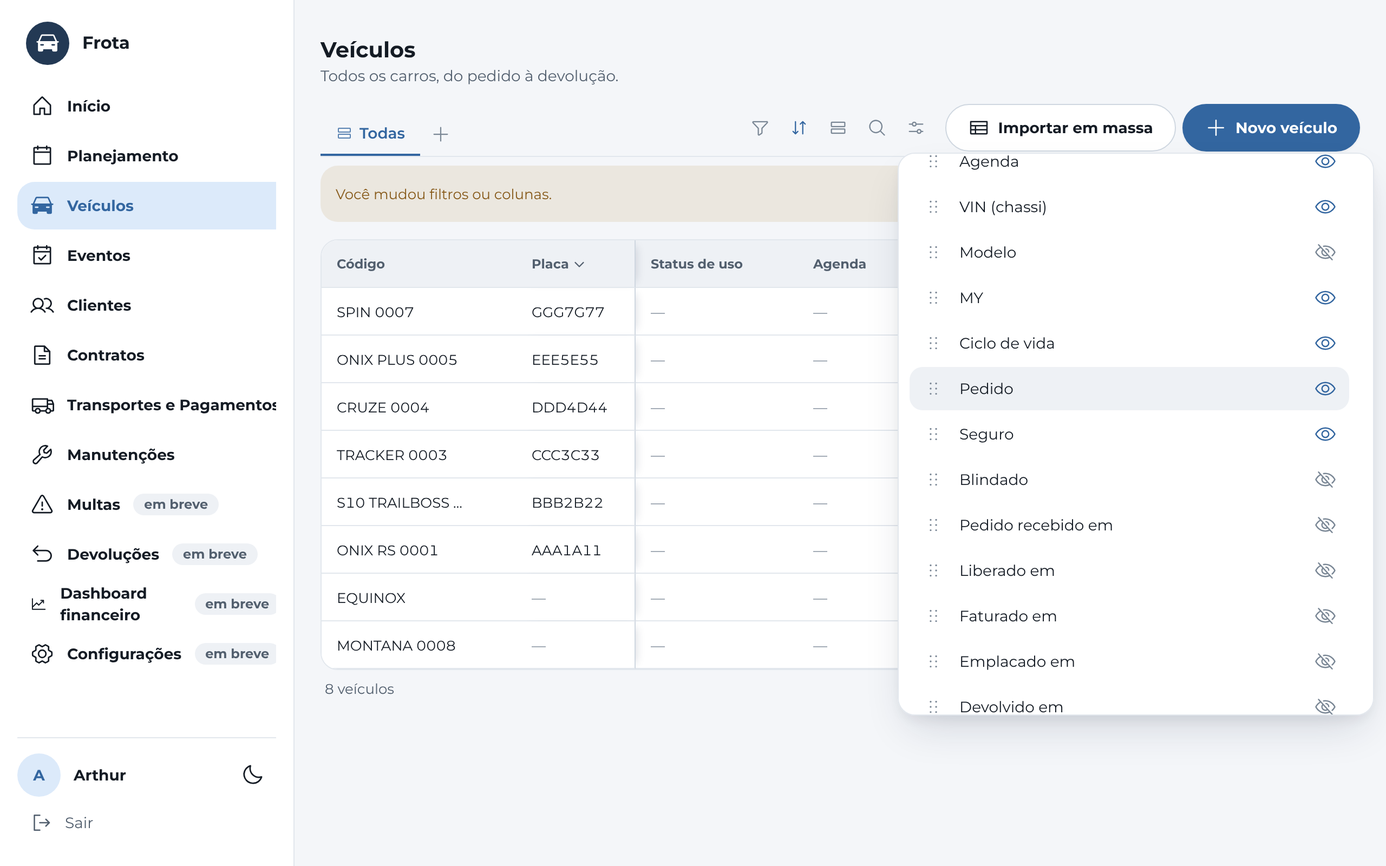
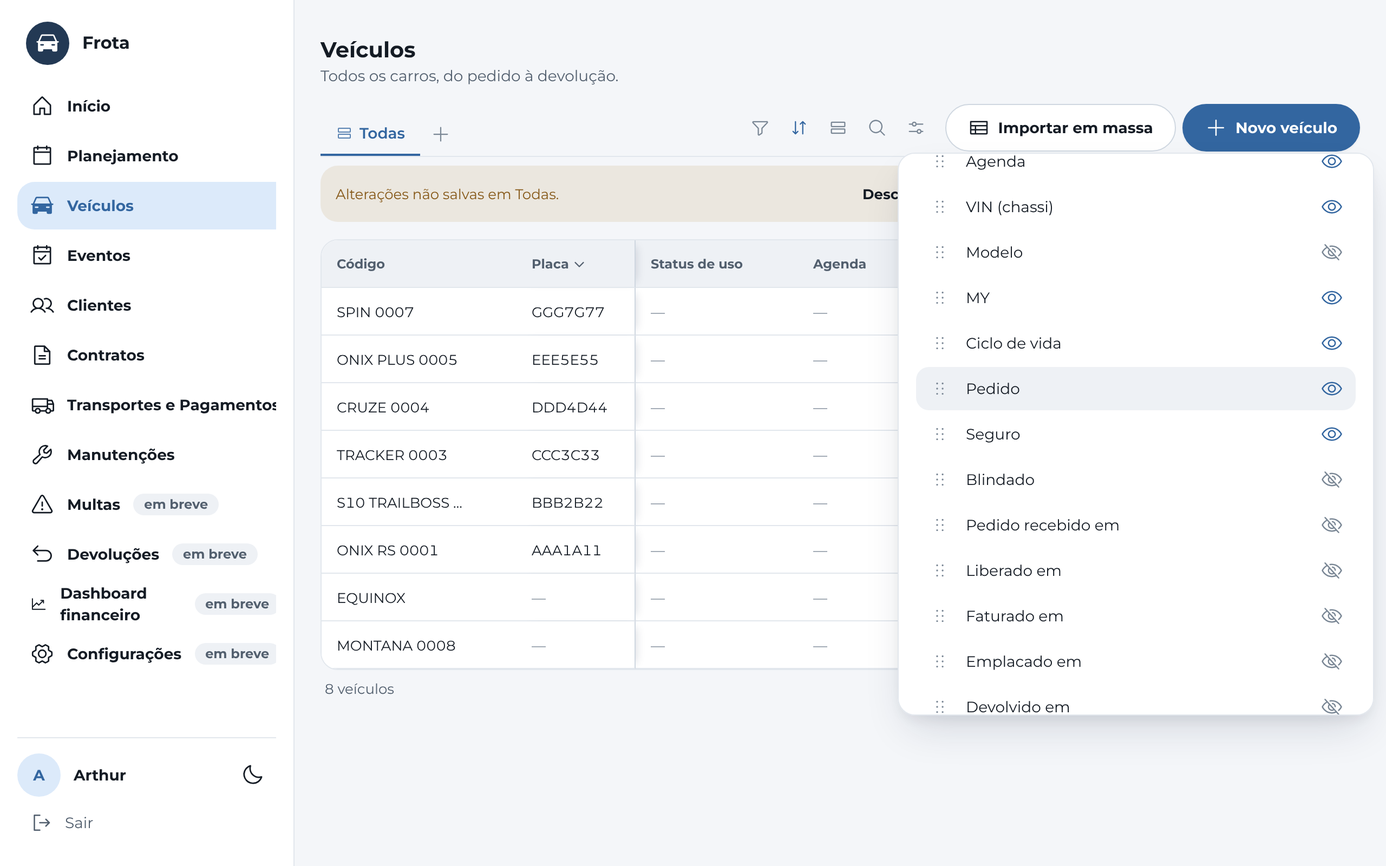
Motor de tabelas: filtros no estilo do Notion (chips, formato pequeno, valor), Todas salva no banco e layout em cartinhas
Claude-Session: https://claude.ai/code/session_01ESTCcgLzWreKa9bGC6U2mi

diff --git a/web/src/components/motor/BarraDeConsulta.tsx b/web/src/components/motor/BarraDeConsulta.tsx
@@ -1,13 +1,14 @@
-import { useMemo } from "react";
-import { ArrowsDownUp, Funnel, Plus, Rows, Trash } from "@phosphor-icons/react";
-import { Button, Select, Segmented } from "../../ds";
+import { useEffect, useMemo, useRef, useState } from "react";
+import { ArrowsDownUp, CaretDown, Funnel, MagnifyingGlass, Plus, Rows, Trash } from "@phosphor-icons/react";
+import { Button, Select, Segmented, cx } from "../../ds";
+import { usePopover } from "../../ds/popover";
 import { OPERADORES_DO_TIPO, TIPOS_AGRUPAVEIS, semValor, type ConsultaDaTabela, type Filtro, type Operador } from "../../lib/motor/consulta";
 import { CampoDeValor } from "./CampoDeValor";
 import { Painel } from "./Painel";
-import { rotuloDoOperador } from "./rotulos";
+import { ROTULO_DA_DATA, ROTULO_DO_PERIODO, rotuloDoOperador } from "./rotulos";
 import type { CampoDaTela, OpcaoDoCampo } from "./tipos";
 
-type Props<T> = { campos: readonly CampoDaTela<T>[]; linhas: readonly T[]; consulta: ConsultaDaTabela; onChange: (c: ConsultaDaTabela) => void };
+type Props<T> = { campos: readonly CampoDaTela<T>[]; linhas: readonly T[]; consulta: ConsultaDaTabela; onChange: (c: ConsultaDaTabela) => void; /** Avisa qual filtro acabou de ser criado (para a tela abrir o editor dele). */ aoAdicionar?: (indice: number) => void };
 
 /** Opções de um campo: as fixas da tela, ou os valores que existem nas linhas (para escolher sem digitar). */
 export function opcoesDoCampo<T>(campo: CampoDaTela<T>, linhas: readonly T[]): readonly OpcaoDoCampo[] {
@@ -17,44 +18,17 @@ export function opcoesDoCampo<T>(campo: CampoDaTela<T>, linhas: readonly T[]): r
   return [...set].sort((a, b) => a.localeCompare(b, "pt-BR", { numeric: true })).map((v) => ({ value: v, label: campo.rotuloDoValor?.(v) ?? v }));
 }
 
-export function BarraDeConsulta<T>({ campos, linhas, consulta, onChange }: Props<T>) {
+export function BarraDeConsulta<T>({ campos, linhas: _linhas, consulta, onChange, aoAdicionar }: Props<T>) {
   const filtros = consulta.filtros ?? [];
   const ordenacao = consulta.ordenacao ?? [];
   const porId = useMemo(() => new Map(campos.map((c) => [c.id, c])), [campos]);
   const salvar = (p: Partial<ConsultaDaTabela>) => onChange({ ...consulta, ...p });
 
-  const trocaFiltro = (i: number, f: Filtro) => salvar({ filtros: filtros.map((x, k) => (k === i ? f : x)) });
-  const novoFiltro = () => { const c = campos[0]!; salvar({ filtros: [...filtros, { campo: c.id, operador: OPERADORES_DO_TIPO[c.tipo][0]!, ...(filtros.length ? { juncao: "e" as const } : {}) }] }); };
+  const adicionar = (c: CampoDaTela<T>) => { salvar({ filtros: [...filtros, { campo: c.id, operador: OPERADORES_DO_TIPO[c.tipo][0]!, ...(filtros.length ? { juncao: "e" as const } : {}) }] }); aoAdicionar?.(filtros.length); };
 
   return (
     <div className="mt-barra" data-testid="barra-consulta">
-      <Painel soIcone rotulo="Filtrar" icone={<Funnel size={18} />} contagem={filtros.length} testid="painel-filtrar">
-        <div className="mt-painel__corpo">
-          {filtros.length === 0 && <p className="t-body-sm t-muted">Nenhum filtro. Adicione um para ver só parte dos veículos.</p>}
-          {filtros.map((f, i) => {
-            const campo = porId.get(f.campo);
-            const tipo = campo?.tipo ?? "texto";
-            return (
-              <div key={i} className="mt-filtro" data-testid="linha-filtro">
-                <div className="mt-filtro__topo">
-                  {i === 0 ? <span className="mt-filtro__onde">Onde</span> : (
-                    <div className="mt-filtro__juncao"><Select aria-label="Ligação com o filtro anterior" value={f.juncao ?? "e"} onChange={(e) => trocaFiltro(i, { ...f, juncao: e.target.value as "e" | "ou" })}><option value="e">E</option><option value="ou">OU</option></Select></div>
-                  )}
-                  <div className="mt-filtro__campo"><Select aria-label="Propriedade" value={f.campo} onChange={(e) => { const c = porId.get(e.target.value)!; trocaFiltro(i, { campo: c.id, operador: OPERADORES_DO_TIPO[c.tipo][0]!, ...(f.juncao ? { juncao: f.juncao } : {}) }); }}>{campos.map((c) => <option key={c.id} value={c.id}>{c.titulo}</option>)}</Select></div>
-                  <div className="mt-filtro__op"><Select aria-label="Condição" value={f.operador} onChange={(e) => { const op = e.target.value as Operador; trocaFiltro(i, { ...f, operador: op, ...(semValor(op) ? { valor: undefined } : {}) }); }}>{OPERADORES_DO_TIPO[tipo].map((o) => <option key={o} value={o}>{rotuloDoOperador(o, tipo)}</option>)}</Select></div>
-                  <Button type="button" variant="ghost" size="icon" aria-label="Remover filtro" onClick={() => salvar({ filtros: filtros.filter((_, k) => k !== i) })}><Trash size={20} /></Button>
-                </div>
-                {campo && !semValor(f.operador) && <div className="mt-filtro__valor"><CampoDeValor tipo={tipo} operador={f.operador} valor={f.valor} opcoes={opcoesDoCampo(campo, linhas)} onChange={(v) => trocaFiltro(i, { ...f, valor: v })} /></div>}
-              </div>
-            );
-          })}
-          <div className="ds-row" style={{ justifyContent: "space-between" }}>
-            <Button type="button" variant="secondary" size="sm" icon={<Plus size={18} />} onClick={novoFiltro} data-testid="novo-filtro">Adicionar filtro</Button>
-            {filtros.length > 0 && <Button type="button" variant="ghost" size="sm" onClick={() => salvar({ filtros: undefined })}>Limpar filtros</Button>}
-          </div>
-          {filtros.some((f) => f.juncao === "ou") && <p className="t-body-sm t-muted">O <b>E</b> prende mais forte que o <b>OU</b>: “A e B ou C” vale como “(A e B) ou C”.</p>}
-        </div>
-      </Painel>
+      <NovoFiltro campos={campos} contagem={filtros.length} onEscolher={adicionar} onLimpar={filtros.length ? () => salvar({ filtros: undefined }) : undefined} />
 
       <Painel soIcone rotulo="Ordenar" icone={<ArrowsDownUp size={18} />} contagem={ordenacao.length} testid="painel-ordenar" largura={440}>
         <div className="mt-painel__corpo">
@@ -82,6 +56,82 @@ export function BarraDeConsulta<T>({ campos, linhas, consulta, onChange }: Props
           {consulta.agrupar && <Segmented options={[{ value: "asc", label: "Ordem crescente" }, { value: "desc", label: "Decrescente" }]} value={consulta.ordemDosGrupos ?? "asc"} onChange={(d) => salvar({ ordemDosGrupos: d })} />}
         </div>
       </Painel>
+    </div>
+  );
+}
+
+/** Escolher a PROPRIEDADE de um filtro novo (como no Notion: primeiro a propriedade, depois o valor). */
+export function NovoFiltro<T>({ campos, contagem, onEscolher, onLimpar, comoChip }: { campos: readonly CampoDaTela<T>[]; contagem?: number; onEscolher: (c: CampoDaTela<T>) => void; onLimpar?: () => void; comoChip?: boolean }) {
+  const [q, setQ] = useState("");
+  const lista = useMemo(() => { const t = q.trim().toLowerCase(); return campos.filter((c) => !t || c.titulo.toLowerCase().includes(t)); }, [campos, q]);
+  return (
+    <Painel soIcone={!comoChip} rotulo={comoChip ? "Filtro" : "Filtrar"} icone={comoChip ? <Plus size={14} /> : <Funnel size={18} />} contagem={comoChip ? 0 : contagem} testid={comoChip ? "mais-filtro" : "painel-filtrar"} largura={280}>
+      <div className="mt-painel__corpo mt-escolher-prop" data-testid="escolher-propriedade">
+        <div className="mt-escolher-prop__busca"><MagnifyingGlass size={16} aria-hidden /><input autoFocus value={q} onChange={(e) => setQ(e.target.value)} placeholder="Filtrar por…" aria-label="Filtrar por propriedade" /></div>
+        <div className="mt-escolher-prop__lista" role="listbox" aria-label="Propriedades">
+          {lista.length === 0 && <p className="t-body-sm t-muted">Nenhuma propriedade.</p>}
+          {lista.map((c) => <button key={c.id} type="button" role="option" aria-selected={false} className="mt-item" onClick={() => { setQ(""); onEscolher(c); }}>{c.titulo}</button>)}
+        </div>
+        {onLimpar && !comoChip && <button type="button" className="mt-item mt-item--perigo" onClick={onLimpar} data-testid="limpar-filtros"><Trash size={16} />Limpar todos os filtros</button>}
+      </div>
+    </Painel>
+  );
+}
+
+const resumoDoValor = (f: Filtro, tipo: string, opcoes: readonly OpcaoDoCampo[]): string => {
+  const v = f.valor;
+  if (semValor(f.operador) || v === undefined || v === "" || (Array.isArray(v) && v.length === 0)) return "";
+  if (Array.isArray(v)) return v.map((x) => opcoes.find((o) => o.value === x)?.label ?? x).join(", ");
+  if (tipo === "data" && typeof v === "string") return ROTULO_DA_DATA[v] ?? ROTULO_DO_PERIODO[v] ?? v.split("-").reverse().join("/");
+  if (typeof v === "string") return opcoes.find((o) => o.value === v)?.label ?? v;
+  return String(v);
+};
+const OPERADOR_PADRAO = new Set<string>(["contem", "e", "igual"]);
+
+/** Um filtro como "chip" (Propriedade: valor). Clicar abre um painel pequeno: o formato do filtro (contém, antes de, maior que…) e o valor. */
+function ChipDeFiltro<T>({ filtro, indice, campo, opcoes, abrir, aoAbrir, onChange, onRemover }: {
+  filtro: Filtro; indice: number; campo: CampoDaTela<T> | undefined; opcoes: readonly OpcaoDoCampo[]; abrir: boolean; aoAbrir: () => void; onChange: (f: Filtro) => void; onRemover: () => void;
+}) {
+  const gatilho = useRef<HTMLButtonElement>(null);
+  const { ref, aberto, setAberto } = usePopover(gatilho, { largura: Math.min(320, typeof window === "undefined" ? 320 : window.innerWidth - 16), alturaMax: 420 });
+  useEffect(() => { if (abrir) { const t = window.setTimeout(() => { setAberto(true); aoAbrir(); }, 60); return () => window.clearTimeout(t); } }, [abrir, setAberto, aoAbrir]);
+  const tipo = campo?.tipo ?? "texto";
+  const resumo = resumoDoValor(filtro, tipo, opcoes);
+  const comValor = !!resumo || semValor(filtro.operador);
+  const prefixo = OPERADOR_PADRAO.has(filtro.operador) || !campo ? "" : `${rotuloDoOperador(filtro.operador, tipo)} `;
+  return (
+    <>
+      <button ref={gatilho} type="button" className={cx("mt-chip", comValor && "is-on")} aria-expanded={aberto} data-testid="chip-filtro" onClick={() => setAberto(!aberto)}>
+        {indice > 0 && <span className="mt-chip__juncao">{filtro.juncao === "ou" ? "ou" : "e"}</span>}
+        <b>{campo?.titulo ?? filtro.campo}</b>{comValor ? <span className="mt-chip__valor">{semValor(filtro.operador) ? rotuloDoOperador(filtro.operador, tipo) : `${prefixo}${resumo}`}</span> : null}<CaretDown size={12} />
+      </button>
+      <div ref={ref} popover="auto" className="ds-pop mt-painel mt-chip__painel" data-testid="painel-chip">
+        <div className="mt-chip__topo">
+          {indice > 0 && <span className="mt-mini"><Select aria-label="Ligação com o filtro anterior" value={filtro.juncao ?? "e"} onChange={(e) => onChange({ ...filtro, juncao: e.target.value as "e" | "ou" })}><option value="e">E</option><option value="ou">OU</option></Select></span>}
+          <span className="mt-chip__prop">{campo?.titulo ?? filtro.campo}</span>
+          <span className="mt-mini"><Select aria-label="Formato do filtro" value={filtro.operador} onChange={(e) => { const op = e.target.value as Operador; onChange({ ...filtro, operador: op, ...(semValor(op) ? { valor: undefined } : {}) }); }}>{OPERADORES_DO_TIPO[tipo].map((o) => <option key={o} value={o}>{rotuloDoOperador(o, tipo)}</option>)}</Select></span>
+          <button type="button" className="mt-chip__lixo" aria-label="Remover filtro" title="Remover filtro" onClick={() => { setAberto(false); onRemover(); }}><Trash size={16} /></button>
+        </div>
+        {campo && !semValor(filtro.operador) && <div className="mt-chip__valorbox"><CampoDeValor tipo={tipo} operador={filtro.operador} valor={filtro.valor} opcoes={opcoes} onChange={(v) => onChange({ ...filtro, valor: v })} /></div>}
+        {!campo && <p className="t-body-sm t-muted">Essa propriedade não existe mais.</p>}
+      </div>
+    </>
+  );
+}
+
+/** A fileira de filtros (chips) logo abaixo da linha de visualizações, com o "+ Filtro" no fim. */
+export function ChipsDeFiltro<T>({ campos, linhas, consulta, onChange, abrirIndice, aoAbrir, aoAdicionar }: { campos: readonly CampoDaTela<T>[]; linhas: readonly T[]; consulta: ConsultaDaTabela; onChange: (c: ConsultaDaTabela) => void; abrirIndice: number | null; aoAbrir: () => void; aoAdicionar: (i: number) => void }) {
+  const filtros = consulta.filtros ?? [];
+  const porId = useMemo(() => new Map(campos.map((c) => [c.id, c])), [campos]);
+  if (filtros.length === 0) return null;
+  const troca = (i: number, f: Filtro) => onChange({ ...consulta, filtros: filtros.map((x, k) => (k === i ? f : x)) });
+  return (
+    <div className="mt-chips" data-testid="chips-de-filtro" role="group" aria-label="Filtros">
+      {filtros.map((f, i) => { const campo = porId.get(f.campo); return (
+        <ChipDeFiltro key={i} filtro={f} indice={i} campo={campo} opcoes={campo ? opcoesDoCampo(campo, linhas) : []} abrir={abrirIndice === i} aoAbrir={aoAbrir}
+          onChange={(nf) => troca(i, nf)} onRemover={() => onChange({ ...consulta, filtros: filtros.length > 1 ? filtros.filter((_, k) => k !== i).map((x, k) => (k === 0 ? { ...x, juncao: undefined } : x)) : undefined })} />
+      ); })}
+      <NovoFiltro campos={campos} comoChip onEscolher={(c) => { onChange({ ...consulta, filtros: [...filtros, { campo: c.id, operador: OPERADORES_DO_TIPO[c.tipo][0]!, juncao: "e" }] }); aoAdicionar(filtros.length); }} />
     </div>
   );
 }

diff --git a/web/src/components/motor/TelaDoMotor.tsx b/web/src/components/motor/TelaDoMotor.tsx
@@ -4,9 +4,9 @@ import { Card, Page, Skeleton, cx } from "../../ds";
 import { useVisoes } from "../../lib/motor/useVisoes";
 import type { PreferenciasDaTabela } from "../../lib/motor/layout";
 import { prefsIguais } from "../../lib/motor/prefs";
-import { configSegura, type VisaoSalva } from "../../lib/motor/visoes";
+import { NOME_DA_VISAO_PADRAO, configSegura, type VisaoSalva } from "../../lib/motor/visoes";
 import { BarraDeVisualizacoes, layoutDe, type Layout } from "./BarraDeVisualizacoes";
-import { BarraDeConsulta } from "./BarraDeConsulta";
+import { BarraDeConsulta, ChipsDeFiltro } from "./BarraDeConsulta";
 import { CartoesDoMotor } from "./CartoesDoMotor";
 import { TabelaDoMotor } from "./TabelaDoMotor";
 import { LinhaDoTempoDoMotor } from "./LinhaDoTempoDoMotor";
@@ -45,23 +45,26 @@ function Casca({ compacta, tela, children }: { compacta?: boolean; tela: string;
 export function TelaDoMotor<T>({ tela, titulo, subtitulo, acoes, avisos, linhas, erro, campos, idDe, onEditar, onAbrir, vazio, rotuloDoTotal, placeholderDaBusca, filhos, linhaDoTempo, eixo: eixoExterno, modoFixo, compacta, selecionadoId, aoSelecionar, alturaDaLinhaDoTempo, larguraEsquerda }: Props<T>) {
   const eixoProprio = useEixoDoTempo("dia");
   const eixo = eixoExterno ?? eixoProprio;
-  const chaveTodas = `frota.motor.${tela}.todas`;
   const v = useVisoes(tela);
   const [busca, setBusca] = useState("");
   const [abaId, setAbaId] = useState("todas");
-  const [todas, setTodas] = useState<PreferenciasDaTabela>(() => { try { return configSegura(JSON.parse(localStorage.getItem(chaveTodas) ?? "{}")); } catch { return {}; } });
   const [rascunho, setRascunho] = useState<PreferenciasDaTabela | null>(null);
   const [buscando, setBuscando] = useState(false);
+  const [filtroNovo, setFiltroNovo] = useState<number | null>(null);
   const [ocupado, setOcupado] = useState(false);
   const [erroVisao, setErroVisao] = useState<string | null>(null);
 
-  useEffect(() => { try { localStorage.setItem(chaveTodas, JSON.stringify(todas)); } catch { /* sem armazenamento */ } }, [todas, chaveTodas]);
-  const ativa: VisaoSalva | undefined = v.visoes.find((x) => x.id === abaId);
+  /** A "Todas" também é salva no banco (uma linha reservada, escondida das abas), para valer em qualquer aparelho. */
+  const linhaPadrao: VisaoSalva | undefined = v.visoes.find((x) => x.nome === NOME_DA_VISAO_PADRAO);
+  const todasSalva: PreferenciasDaTabela = useMemo(() => (linhaPadrao ? configSegura(linhaPadrao.config) : {}), [linhaPadrao]);
+  const abas = useMemo(() => v.visoes.filter((x) => x.nome !== NOME_DA_VISAO_PADRAO), [v.visoes]);
+  const ativa: VisaoSalva | undefined = abas.find((x) => x.id === abaId);
   const abaValida = abaId === "todas" || !!ativa || v.carregando;
   useEffect(() => { if (!abaValida) setAbaId("todas"); }, [abaValida]);
-  const prefs = ativa ? (rascunho ?? ativa.config) : todas;
-  const alterada = ativa ? rascunho !== null && !prefsIguais(rascunho, ativa.config) : !prefsIguais(todas, {});
-  const onPrefs = (p: PreferenciasDaTabela) => { if (ativa) setRascunho(p); else setTodas(p); };
+  const base = ativa ? ativa.config : todasSalva;
+  const prefs = rascunho ?? base;
+  const alterada = rascunho !== null && !prefsIguais(rascunho, base);
+  const onPrefs = (p: PreferenciasDaTabela) => setRascunho(p);
   const irParaAba = (id: string) => { setAbaId(id); setRascunho(null); setErroVisao(null); };
   const modo: "tabela" | "cards" | "timeline" = modoFixo === "timeline" ? "timeline" : prefs.visualizacao === "galeria" ? "cards" : prefs.visualizacao === "timeline" && linhaDoTempo ? "timeline" : "tabela";
 
@@ -80,19 +83,26 @@ export function TelaDoMotor<T>({ tela, titulo, subtitulo, acoes, avisos, linhas,
         {!compacta && <div><h1 className="t-h1">{titulo}</h1><p className="t-body t-muted">{subtitulo}</p></div>}
         {avisos}
 
-        <BarraDeVisualizacoes<T> visoes={v.visoes} abaId={abaId} onAba={irParaAba} alterada={alterada} ocupado={ocupado} erro={erroVisao ?? v.erro}
+        <BarraDeVisualizacoes<T> visoes={abas} abaId={abaId} onAba={irParaAba} alterada={alterada} ocupado={ocupado} erro={erroVisao ?? v.erro}
           layoutAtivo={modo === "cards" ? "galeria" : modo === "timeline" ? "timeline" : "tabela"} layoutsDisponiveis={layouts} layoutFixo={!!modoFixo}
           campos={campos} prefs={prefs} onPrefs={onPrefs}
           onNovoLayout={async (layout: Layout, nome: string) => { const nova = await comAviso(() => v.criar(nome, layout, { visualizacao: layout })); if (nova) irParaAba(nova.id); }}
-          onSalvarComo={async (nome) => { const nova = await comAviso(() => v.criar(nome, prefs.visualizacao ?? "tabela", prefs)); if (nova) { if (!ativa) setTodas({}); irParaAba(nova.id); } }}
-          onSalvar={async () => { if (ativa && rascunho) { await comAviso(() => v.atualizar(ativa.id, { config: rascunho, tipo: layoutDe({ tipo: ativa.tipo, config: rascunho }) })); setRascunho(null); } }}
-          onDescartar={() => { if (ativa) setRascunho(null); else setTodas({}); }}
+          onSalvarComo={async (nome) => { const nova = await comAviso(() => v.criar(nome, prefs.visualizacao ?? "tabela", prefs)); if (nova) irParaAba(nova.id); }}
+          onSalvar={async () => {
+            if (!rascunho) return;
+            const tipo = layoutDe({ tipo: "tabela", config: rascunho });
+            if (ativa) await comAviso(() => v.atualizar(ativa.id, { config: rascunho, tipo: layoutDe({ tipo: ativa.tipo, config: rascunho }) }));
+            else if (linhaPadrao) await comAviso(() => v.atualizar(linhaPadrao.id, { config: rascunho, tipo }));
+            else await comAviso(() => v.criar(NOME_DA_VISAO_PADRAO, tipo, rascunho));
+            setRascunho(null);
+          }}
+          onDescartar={() => setRascunho(null)}
           onRenomear={async (id, nome) => { await comAviso(() => v.atualizar(id, { nome })); }}
           onDuplicar={async (x) => { const nova = await comAviso(() => v.criar(`${x.nome} (cópia)`, x.tipo, ativa?.id === x.id ? prefs : x.config)); if (nova) irParaAba(nova.id); }}
           onExcluir={async (id) => { await comAviso(() => v.excluir(id)); irParaAba("todas"); }}
           acoes={acoes}
           ferramentas={<>
-            <BarraDeConsulta campos={campos} linhas={linhas ?? []} consulta={prefs} onChange={(c) => onPrefs({ ...prefs, ...c })} />
+            <BarraDeConsulta campos={campos} linhas={linhas ?? []} consulta={prefs} onChange={(c) => onPrefs({ ...prefs, ...c })} aoAdicionar={setFiltroNovo} />
             <div className="mt-busca">
               {buscando || busca ? (
                 <input value={busca} autoFocus={buscando} onChange={(e) => setBusca(e.target.value)} onBlur={(e) => { const campo = e.currentTarget; window.setTimeout(() => { if (!campo.value) setBuscando(false); }, 250); }} onKeyDown={(e) => { if (e.key === "Escape") { setBusca(""); setBuscando(false); } }}
@@ -101,6 +111,8 @@ export function TelaDoMotor<T>({ tela, titulo, subtitulo, acoes, avisos, linhas,
               <button type="button" className={cx("mt-btn", "mt-btn--icone", !!busca && "is-on")} aria-label="Abrir busca" title="Buscar" data-testid="abrir-busca" onClick={() => { if (busca) { setBusca(""); setBuscando(false); } else setBuscando(!buscando); }}><MagnifyingGlass size={18} /></button>
             </div>
           </>} />
+
+        <ChipsDeFiltro campos={campos} linhas={linhas ?? []} consulta={prefs} onChange={(c) => onPrefs({ ...prefs, ...c })} abrirIndice={filtroNovo} aoAbrir={() => setFiltroNovo(null)} aoAdicionar={setFiltroNovo} />
 
         {erro ? <Card><p className="t-body" role="alert">Não consegui carregar {titulo.toLowerCase()}: {erro}</p></Card>
           : !linhas ? <Card><Skeleton h={24} /><div style={{ height: 8 }} /><Skeleton h={24} /><div style={{ height: 8 }} /><Skeleton h={24} /></Card>

diff --git a/web/src/components/motor/BarraDeVisualizacoes.tsx b/web/src/components/motor/BarraDeVisualizacoes.tsx
@@ -1,6 +1,6 @@
 import { useRef, useState, type ReactNode } from "react";
 import { ChartBarHorizontal, Copy, Plus, Rows, SlidersHorizontal, SquaresFour, Trash } from "@phosphor-icons/react";
-import { Button, Field, Input, Segmented, Sheet, cx } from "../../ds";
+import { Button, Field, Input, Sheet, cx } from "../../ds";
 import type { PreferenciasDaTabela } from "../../lib/motor/layout";
 import { MAXIMO_DE_VISUALIZACOES, ROTULO_DO_TIPO, type TipoDeVisualizacao, type VisaoSalva } from "../../lib/motor/visoes";
 import { Painel } from "./Painel";
@@ -11,6 +11,7 @@ export type Layout = "tabela" | "galeria" | "timeline";
 const ICONE: Record<Layout, ReactNode> = { tabela: <Rows size={16} />, galeria: <SquaresFour size={16} />, timeline: <ChartBarHorizontal size={16} /> };
 /** O layout que uma visualização mostra de verdade: o da config (que o Arthur muda dentro dela) ou, na falta, o tipo salvo. */
 export const layoutDe = (v: { tipo: TipoDeVisualizacao; config: PreferenciasDaTabela }): Layout => { const l = v.config.visualizacao ?? v.tipo; return l === "galeria" || l === "timeline" ? l : "tabela"; };
+const ICONE_GRANDE: Record<Layout, ReactNode> = { tabela: <Rows size={22} />, galeria: <SquaresFour size={22} />, timeline: <ChartBarHorizontal size={22} /> };
 const nomeNovo = (base: string, existentes: string[]) => { if (!existentes.includes(base)) return base; let n = 2; while (existentes.includes(`${base} ${n}`)) n++; return `${base} ${n}`; };
 
 type Props<T> = {
@@ -74,7 +75,9 @@ export function BarraDeVisualizacoes<T>({ visoes, abaId, onAba, alterada, ocupad
                   onKeyDown={(e) => { if (e.key === "Enter") (e.target as HTMLInputElement).blur(); }} /></Field>
               ) : <span className="t-body" style={{ fontWeight: 700 }}>Todas <span className="t-body-sm t-muted">(visualização padrão)</span></span>}
               {!layoutFixo && layoutsDisponiveis.length > 1 && (
-                <Field label="Layout"><Segmented block options={layoutsDisponiveis.map((l) => ({ value: l, label: <span className="mt-modo">{ICONE[l]}{ROTULO_DO_TIPO[l]}</span> }))} value={layoutAtivo} onChange={(l) => onPrefs({ ...prefs, visualizacao: l })} /></Field>
+                <Field label="Layout"><div className="mt-layouts" role="radiogroup" aria-label="Layout">
+                  {layoutsDisponiveis.map((l) => <button key={l} type="button" role="radio" aria-checked={layoutAtivo === l} className={cx("mt-layout", layoutAtivo === l && "is-on")} data-testid={`layout-${l}`} onClick={() => onPrefs({ ...prefs, visualizacao: l })}>{ICONE_GRANDE[l]}<span>{ROTULO_DO_TIPO[l]}</span></button>)}
+                </div></Field>
               )}
               <Propriedades campos={campos} prefs={prefs} onChange={onPrefs} />
               {falha && <p className="t-body-sm" role="alert" style={{ color: "var(--color-error-fg)" }}>{falha}</p>}
@@ -94,10 +97,10 @@ export function BarraDeVisualizacoes<T>({ visoes, abaId, onAba, alterada, ocupad
 
       {alterada && (
         <div className="mt-alterada" role="status" data-testid="barra-alterada">
-          <span className="t-body-sm">{ativa ? "Alterações não salvas nesta visualização." : "Você mudou filtros ou colunas."}</span>
+          <span className="t-body-sm">{ativa ? "Alterações não salvas nesta visualização." : "Alterações não salvas em Todas."}</span>
           <div className="ds-row">
             {ativa ? (<><Button size="sm" variant="secondary" onClick={onDescartar}>Descartar</Button><Button size="sm" loading={ocupado} onClick={() => void onSalvar()} data-testid="salvar-visao">Salvar</Button></>)
-              : (<><Button size="sm" variant="secondary" onClick={onDescartar} data-testid="restaurar-todas">Restaurar padrão</Button><Button size="sm" onClick={() => { setNome(""); setFalha(null); setSalvandoComo(true); }} data-testid="salvar-como">Salvar como visualização</Button></>)}
+              : (<><Button size="sm" variant="ghost" onClick={onDescartar} data-testid="restaurar-todas">Descartar</Button><Button size="sm" variant="secondary" onClick={() => { setNome(""); setFalha(null); setSalvandoComo(true); }} data-testid="salvar-como">Salvar como visualização</Button><Button size="sm" loading={ocupado} onClick={() => void onSalvar()} data-testid="salvar-visao">Salvar em Todas</Button></>)}
           </div>
         </div>
       )}

diff --git a/web/src/components/motor/motor.css b/web/src/components/motor/motor.css
@@ -189,3 +189,31 @@ button.mt-tag:hover { filter: brightness(0.96); }
 @media (max-width: 640px) { .mt-busca input { width: 150px; } .mt-vbar__dir { flex: 1 1 100%; margin-left: 0; max-width: 100%; } .mt-vbar__acoes { margin-left: auto; padding-top: 4px; justify-content: flex-end; } }
 .mt-vbar__dir .mt-barra { display: contents; }
 .mt-modo { white-space: nowrap; }
+
+/* ── Filtros no estilo do Notion: escolher a propriedade; chips; formato e valor num painel pequeno ── */
+.mt-escolher-prop { gap: 6px; }
+.mt-escolher-prop__busca { display: flex; align-items: center; gap: 6px; padding: 0 10px; min-height: 34px; border: 1px solid var(--color-accent-ring); border-radius: var(--radius-md); background: var(--color-surface); color: var(--color-text-subtle); }
+.mt-escolher-prop__busca input { flex: 1; border: 0; outline: 0; background: transparent; font-size: 13px; color: var(--color-text); min-width: 0; }
+.mt-escolher-prop__lista { display: grid; gap: 1px; max-height: 300px; overflow-y: auto; }
+.mt-chips { display: flex; flex-wrap: wrap; align-items: center; gap: 6px; }
+.mt-chip { display: inline-flex; align-items: center; gap: 6px; min-height: 28px; padding: 0 10px; border-radius: var(--radius-full); border: 1px solid var(--color-border-strong); background: var(--color-surface); color: var(--color-text-muted); font-size: 12.5px; max-width: 100%; }
+.mt-chip b { font-weight: 600; color: inherit; }
+.mt-chip.is-on { background: var(--color-accent-soft); border-color: var(--color-accent-ring); color: var(--color-accent); }
+.mt-chip__valor { max-width: 220px; overflow: hidden; text-overflow: ellipsis; white-space: nowrap; font-weight: 500; }
+.mt-chip__juncao { font-size: 10.5px; text-transform: uppercase; letter-spacing: 0.04em; opacity: 0.7; }
+.mt-chips .mt-btn { min-height: 28px; padding: 0 10px; font-size: 12.5px; color: var(--color-text-subtle); border-style: dashed; background: transparent; }
+.mt-chip__painel { padding: 10px; }
+.mt-chip__topo { display: flex; align-items: center; gap: 6px; margin-bottom: 8px; }
+.mt-chip__prop { font-weight: 600; font-size: 13px; }
+.mt-chip__lixo { margin-left: auto; display: inline-grid; place-items: center; width: 28px; height: 28px; border: 0; border-radius: var(--radius-md); background: transparent; color: var(--color-text-subtle); }
+.mt-chip__lixo:hover { background: var(--color-surface-elevated); color: var(--color-error-fg); }
+.mt-chip__valorbox { display: grid; gap: 6px; }
+/* seletor bem pequenininho (formato do filtro e E/OU) */
+.mt-mini .ds-selectbox { min-height: 26px; height: 26px; padding: 0 8px; font-size: 12px; border-radius: var(--radius-md); gap: 4px; width: auto; }
+.mt-mini { display: inline-flex; }
+
+/* escolha do layout dentro da visualização: três "cartinhas" iguais (o texto nunca é cortado) */
+.mt-layouts { display: grid; grid-template-columns: repeat(3, minmax(0, 1fr)); gap: 8px; }
+.mt-layout { display: grid; justify-items: center; gap: 6px; padding: 10px 6px; border: 1px solid var(--color-border-strong); border-radius: var(--radius-lg); background: var(--color-surface); color: var(--color-text-muted); font-size: 12.5px; font-weight: 600; text-align: center; line-height: 1.2; }
+.mt-layout:hover { border-color: var(--color-accent-ring); }
+.mt-layout.is-on { background: var(--color-accent-soft); border-color: var(--color-accent); color: var(--color-accent); }

diff --git a/web/src/lib/motor/visoes.ts b/web/src/lib/motor/visoes.ts
@@ -7,6 +7,8 @@ export type TipoDeVisualizacao = (typeof TIPOS_DE_VISUALIZACAO)[number];
 export const ROTULO_DO_TIPO: Record<TipoDeVisualizacao, string> = { tabela: "Tabela", kanban: "Quadro", calendario: "Calendário", timeline: "Linha do tempo", galeria: "Cards" };
 
 export const MAXIMO_DE_VISUALIZACOES = 30;
+/** Nome reservado da linha que guarda a visualização "Todas" (escondida das abas). */
+export const NOME_DA_VISAO_PADRAO = "__todas__";
 
 /** Uma linha de `visoes_salvas`, já com a config validada. */
 export type VisaoSalva = { id: string; tela: string; nome: string; tipo: TipoDeVisualizacao; config: PreferenciasDaTabela; posicao: number };

diff --git a/docs/plano-app.md b/docs/plano-app.md
@@ -168,6 +168,8 @@ Vale para toda tela que usa o motor de tabela (Veículos, Eventos, Manutenções
 - ✅ **O layout (Tabela, Cards, Linha do tempo) agora é da visualização**: some o seletor solto. Clicando na aba ativa (ou no ícone de configurações) abre o painel da visualização com **nome, layout, propriedades (mostrar/esconder, ordem, congelar colunas)**, **Duplicar** e **Excluir**. Trocar o layout de uma visualização salva pede para Salvar; salvar grava o layout novo.
 - ✅ O **+** oferece os **modelos** (Tabela, Cards, Linha do tempo) e cria a visualização já com o nome do modelo. A aba padrão **Todas** tem o mesmo painel e a opção "Salvar como nova visualização".
 - Obs.: o Planejamento (duas linhas do tempo fixas) esconde a escolha de layout.
+- ✅ **Filtros como no Notion** (13/11/2026): o funil abre uma busca "Filtrar por…" com as propriedades da tabela; ao escolher uma, nasce um **chip** (Propriedade + valor) logo abaixo da linha de visualizações e o editor dele já abre: um **seletor pequeno do formato** (contém, não contém, antes de, depois de, maior que, está vazio…, conforme o tipo) e o valor. Dá para mudar E/OU entre filtros, remover pela lixeira, e há "+ Filtro" no fim da fileira. O painel nunca passa da borda da tela.
+- ✅ **"Todas" também salva**: filtros, ordem, agrupamento, propriedades e layout feitos em Todas agora têm **Salvar em Todas** (vale em qualquer aparelho; fica numa linha reservada do banco, escondida das abas), **Descartar** e "Salvar como visualização". O layout (Tabela / Cards / Linha do tempo) virou três cartinhas iguais no painel da visualização.
 
 ## 8. Perguntas abertas (uma de cada vez)
 
